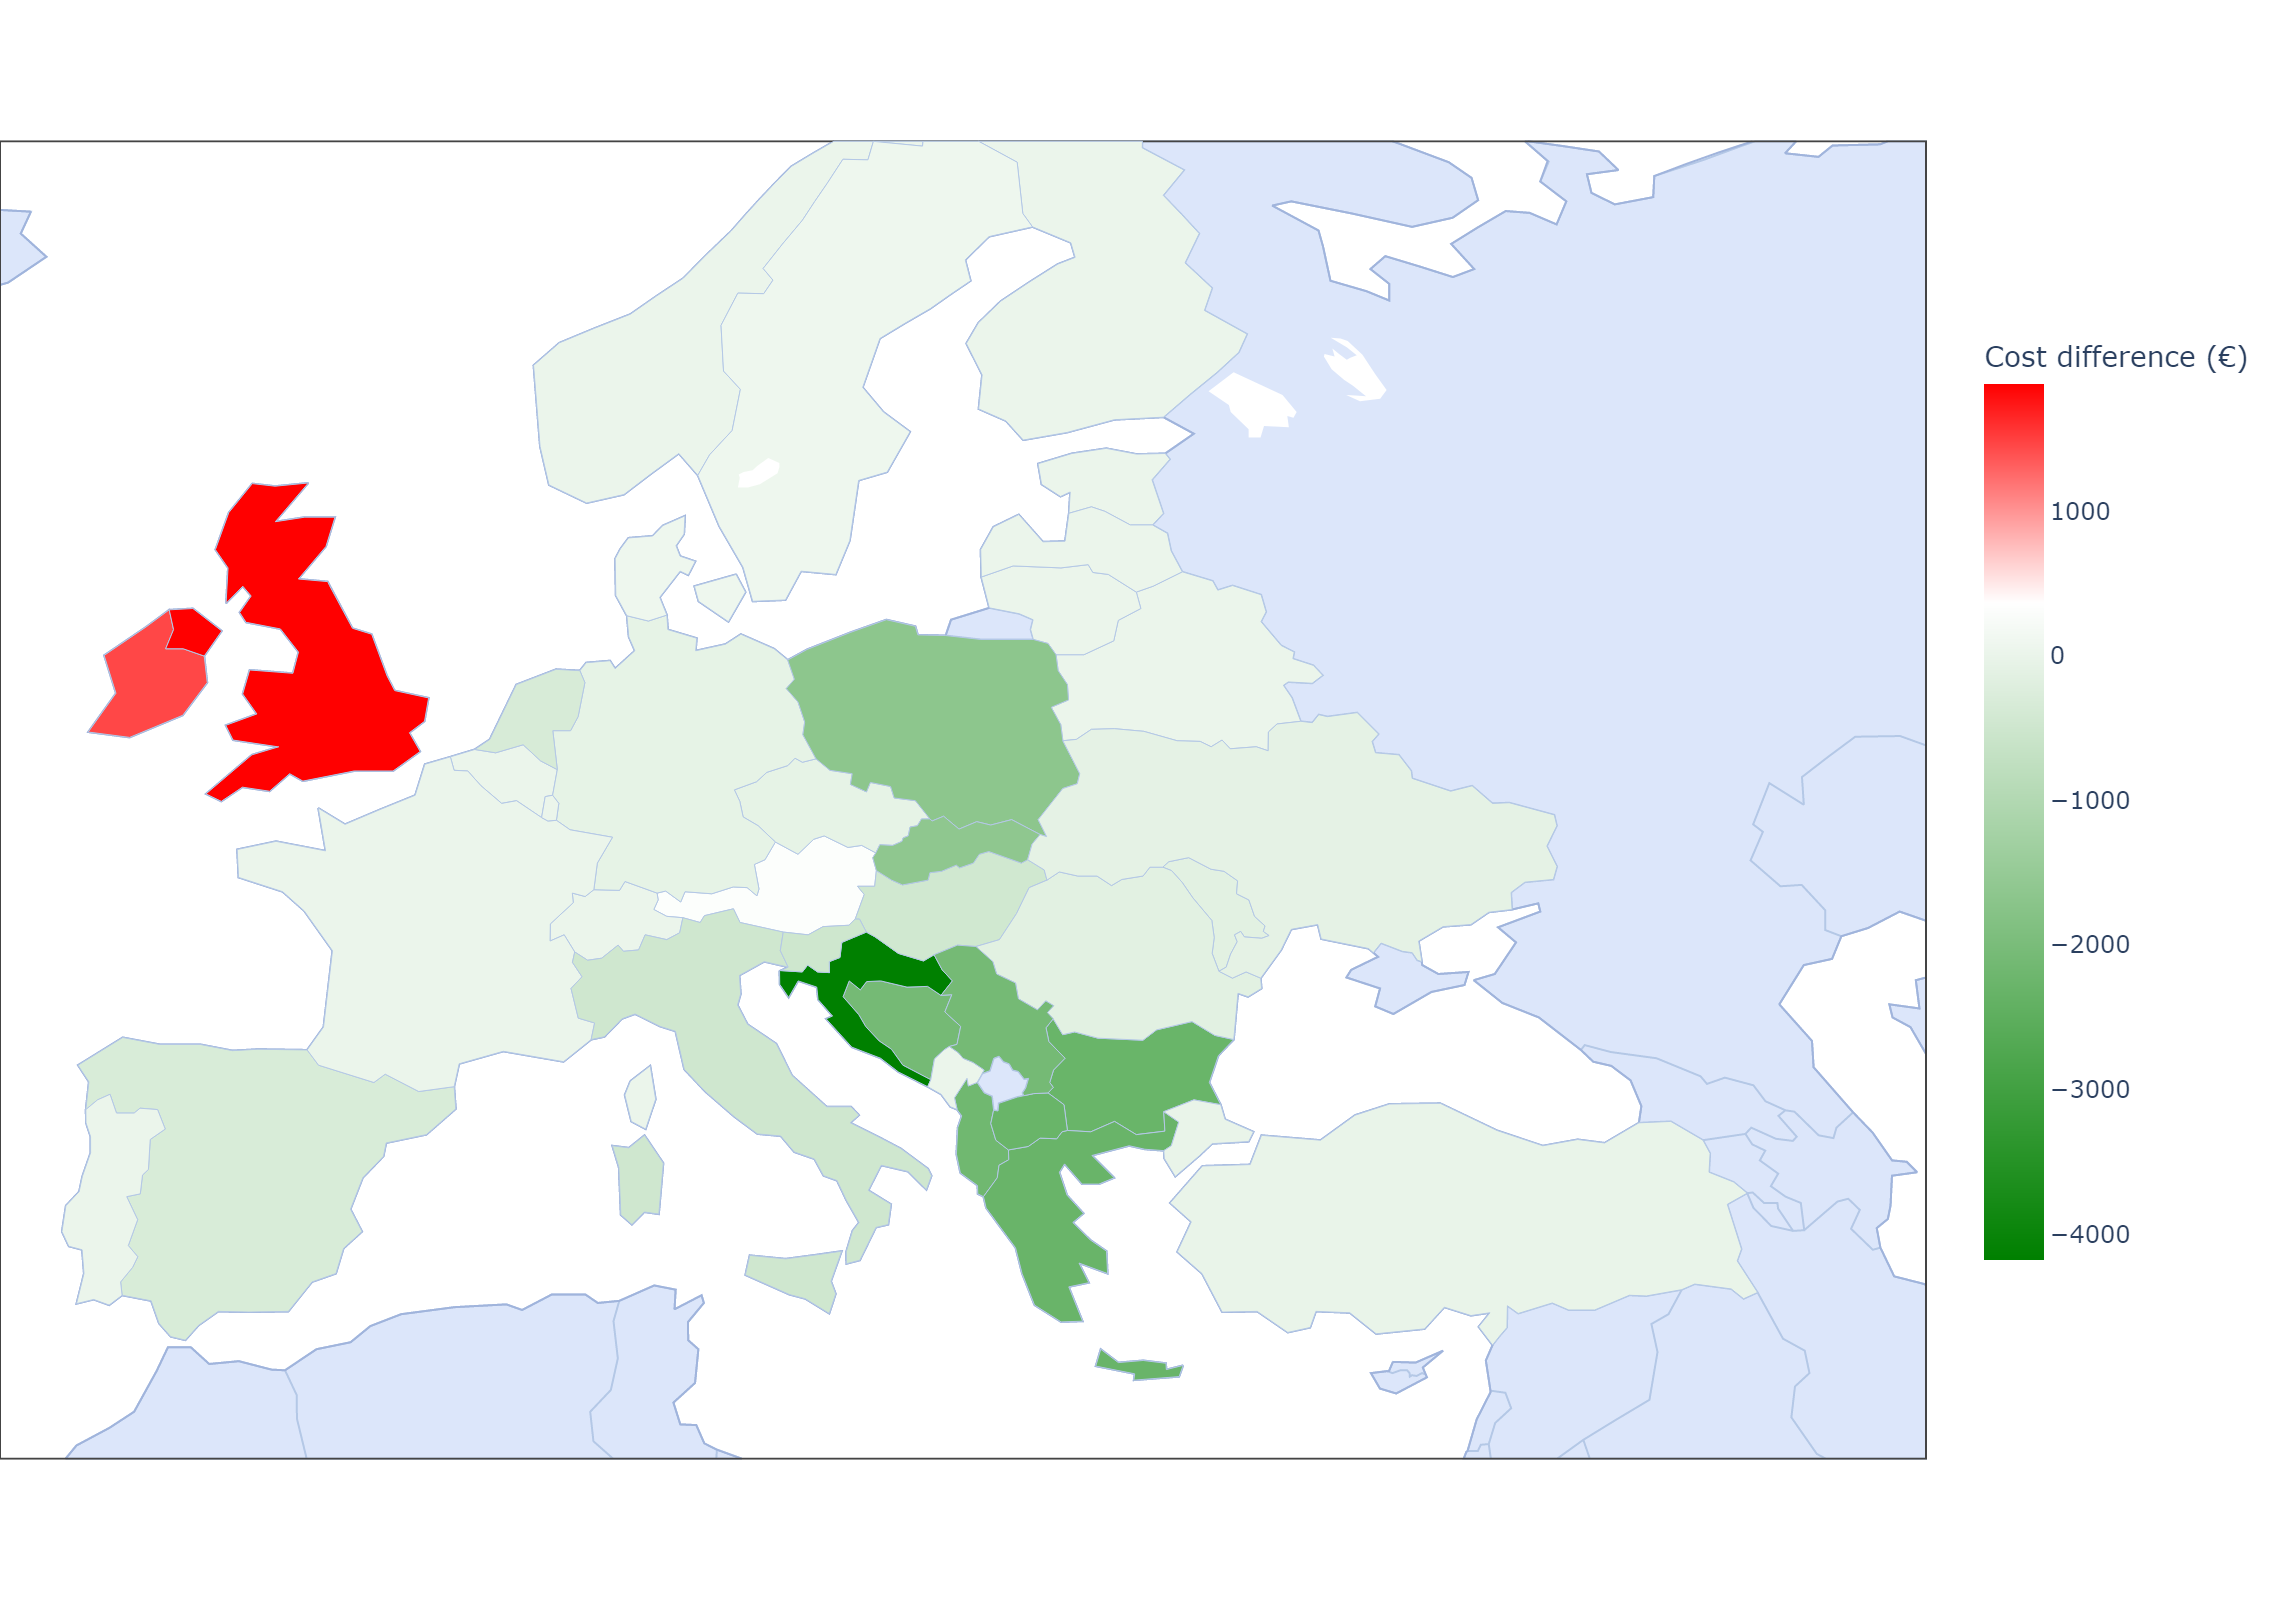
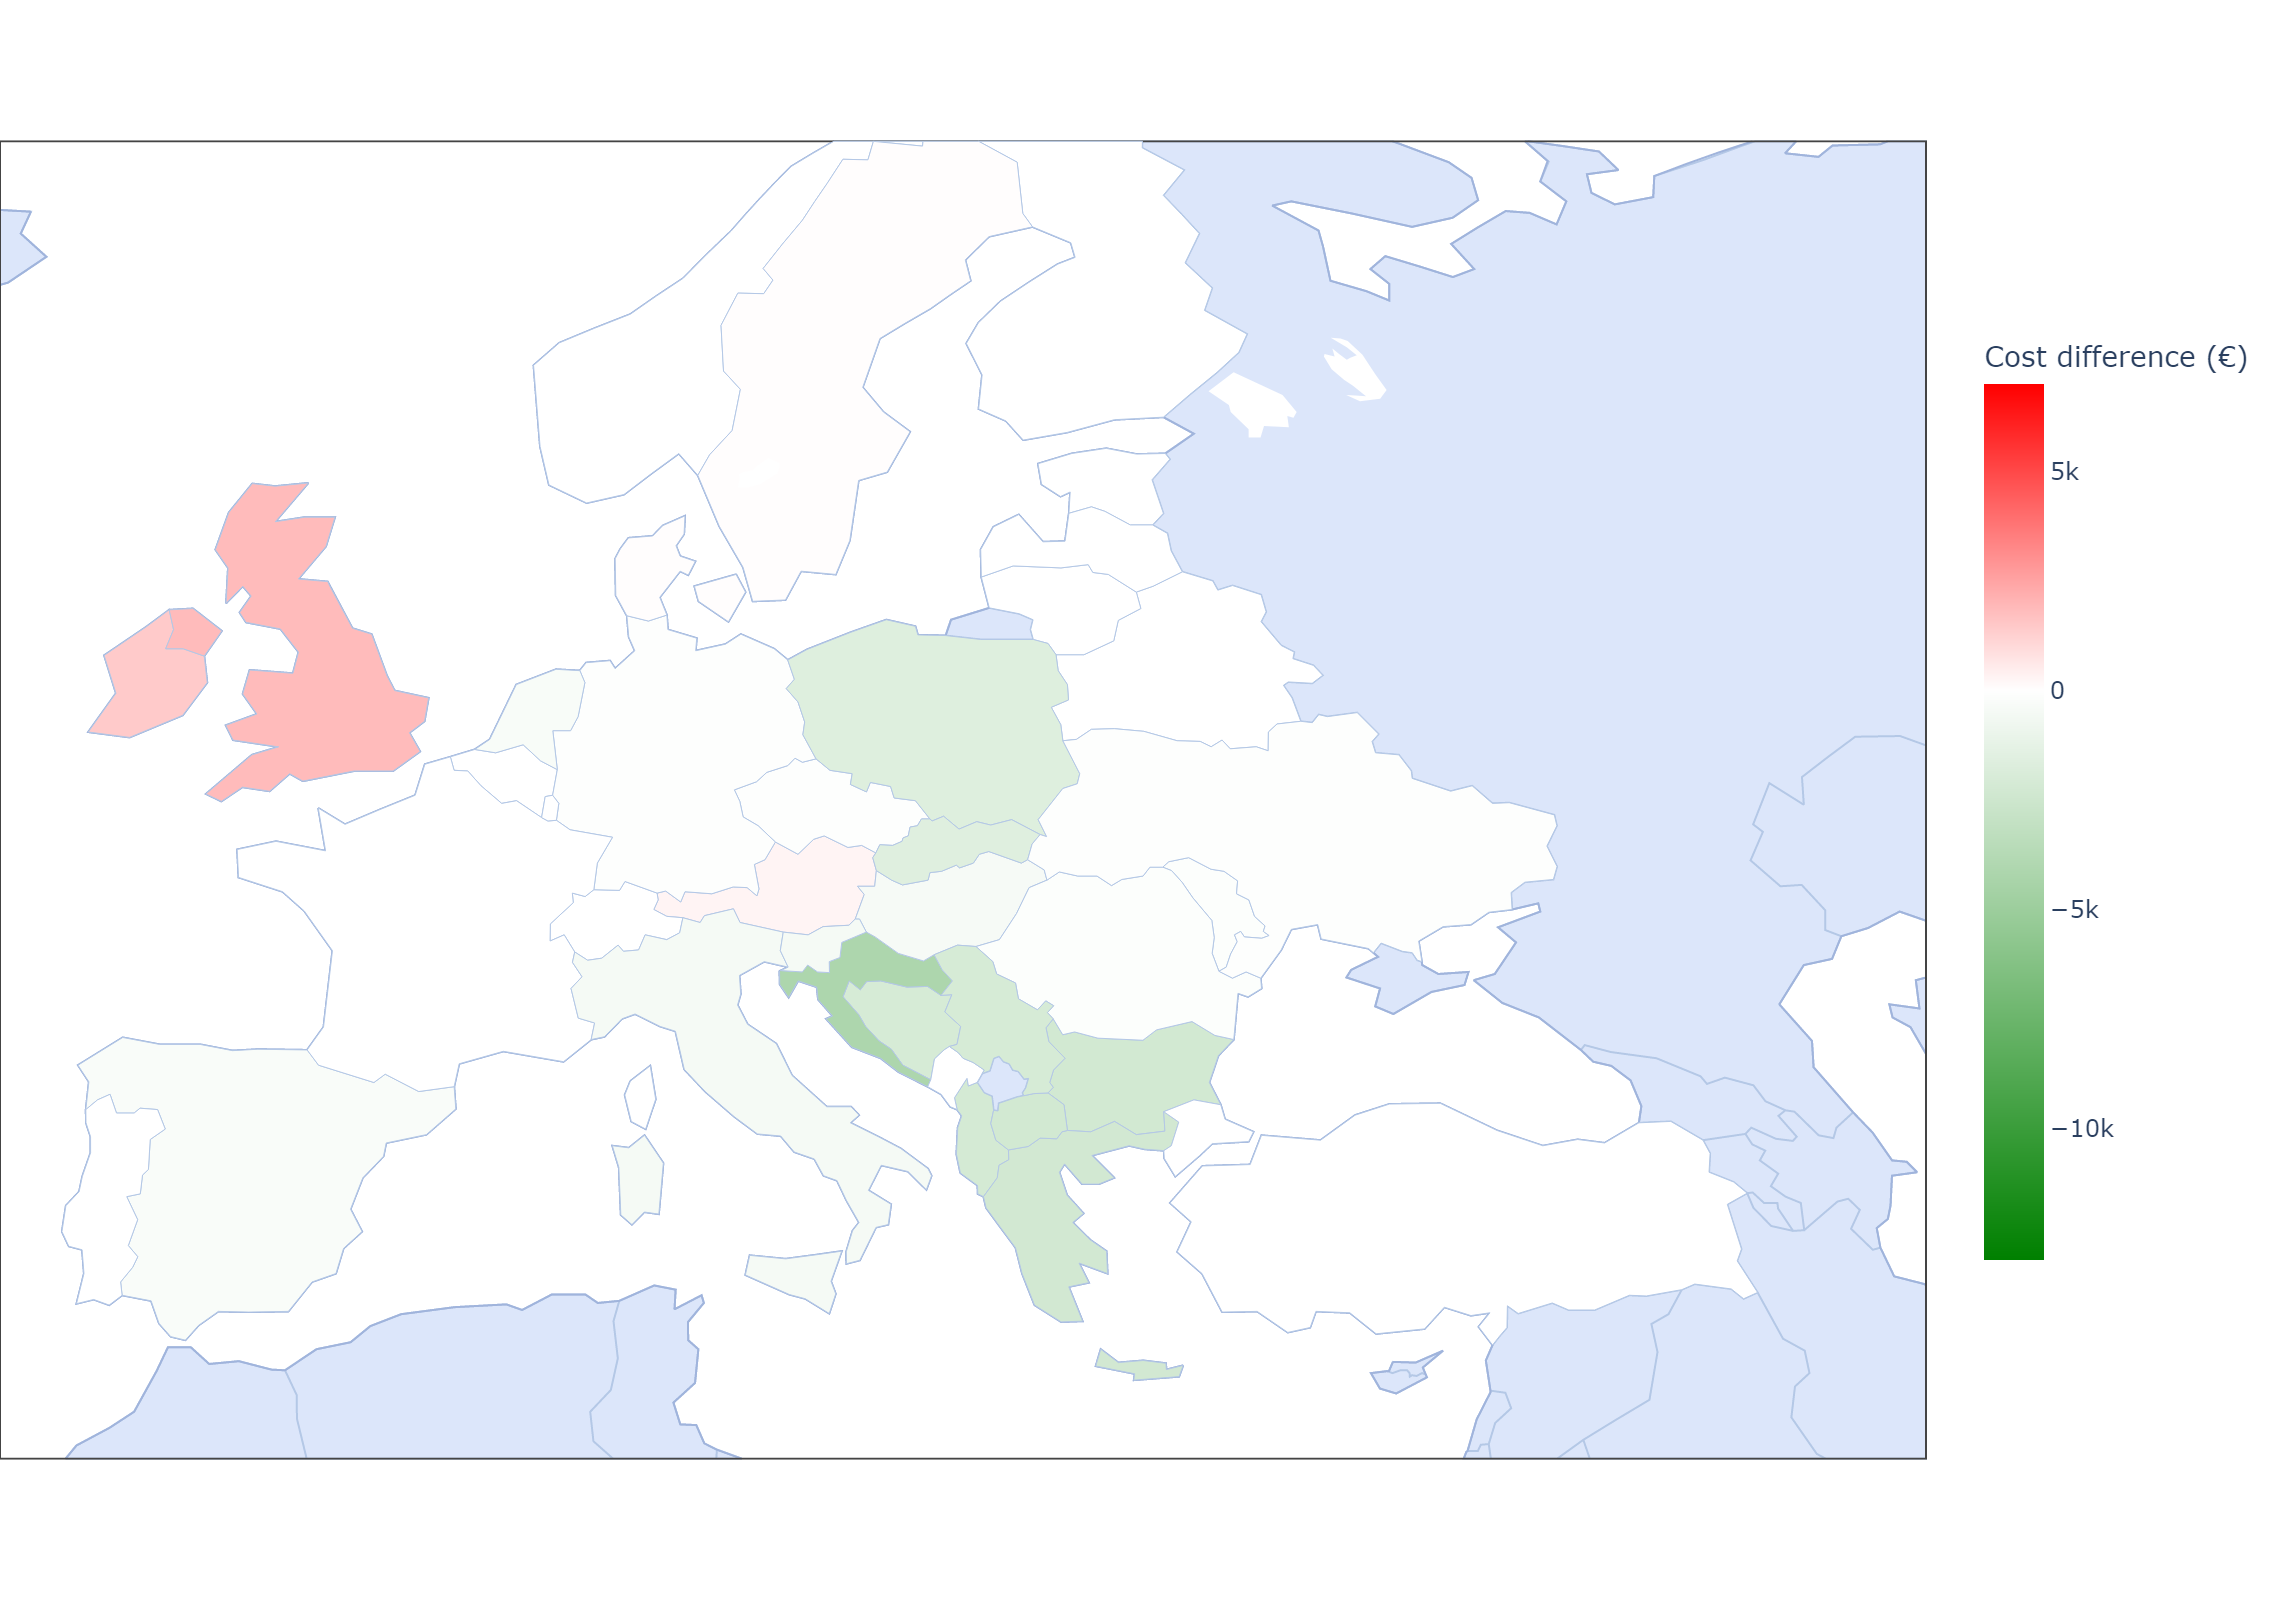
Fix colorbar for cost difference heatmaps

diff --git a/00_code_base/08_output_preparation/plot_visualization.py b/00_code_base/08_output_preparation/plot_visualization.py
@@ -7,9 +7,8 @@ from output_visualization_functions import *
 from LNG_external_imports_functions import *
 from year_difference_functions import *
 
-base_path =r"C:\Users\flv.eco\OneDrive - CBS - Copenhagen Business School\Documents\03_LNG_Cap\hydrogen_grid"
-# base_path = r"C:\Users\mar.eco\OneDrive - CBS - Copenhagen Business School\Desktop\hydrogen_grid"
-# base_path = r"/Users/mathilderogerestrade/Desktop/hydrogen_grid"
+# base_path =r"C:\Users\flv.eco\OneDrive - CBS - Copenhagen Business School\Documents\03_LNG_Cap\hydrogen_grid"
+base_path = r"C:\Users\mar.eco\OneDrive - CBS - Copenhagen Business School\Desktop\hydrogen_grid"
 #
 
 # Import this for save funcroin to work
@@ -97,9 +96,9 @@ pipelines_2035 = df_2035[(df_2035['FromType'] == '-') & (df_2035['ToType'] == '-
 pipeline_status_2035 = {edge: 'included' for edge in pipelines_2035['Edge']}
 
 
-plot_map(df_ports_2021, pipelines_2021, pipeline_status_2021, 2021, base_path, False)
-plot_map(df_ports_2024, pipelines_2024, pipeline_status_2024, 2024, base_path, False)
-plot_map(df_ports_2035, pipelines_2035, pipeline_status_2035, 2035, base_path, False)
+#plot_map(df_ports_2021, pipelines_2021, pipeline_status_2021, 2021, base_path, False)
+#plot_map(df_ports_2024, pipelines_2024, pipeline_status_2024, 2024, base_path, False)
+#plot_map(df_ports_2035, pipelines_2035, pipeline_status_2035, 2035, base_path, False)
 
 # -----------------------------------------------------------------------
 df_no_invest = process_file(output_file_no_invest)
@@ -224,19 +223,23 @@ if save_flow_invest:
 
 # ---------------------------------------------------------------------
 data_path = os.path.join(base_path, "01_data", "02_output_data", "02_unidirectional_results", "01_paper_IAEE", "02_prepared_results")
-scenario = "2035_AP_to_SP"
-full_name = "costs_shares_IAEE_2025_run_2035_AP"
-input_file_cost = os.path.join(data_path, "costs_shares_IAEE_2025_run_2035_AP.xlsx")
+scenario = "2024_inv"
+full_name = "costs_shares_IAEE_2025_run_2024_inv"
+input_file_cost = os.path.join(data_path, "costs_shares_IAEE_2025_run_2024_inv.xlsx")
 
 file_cost_difference_2021 = os.path.join(data_path, "cost_shares_differences_to_2021.xlsx")
 file_cost_difference_2024 = os.path.join(data_path, "cost_shares_differences_to_2024.xlsx")
 file_cost_difference_2035 = os.path.join(data_path, "cost_shares_differences_to_2035_SP.xlsx")
 
-#plot_cost_difference(file_cost_difference_2035, full_name, scenario, base_path, False)
+colorbar_zero_2021 = 0.32
+colorbar_zero_2024 = 0.65
+colorbar_zero_2025 = 0.7
+
+plot_cost_difference(file_cost_difference_2024, full_name, scenario, base_path, colorbar_zero_2024, True)
 
 data_path_emissions = os.path.join(base_path, "01_data", "02_output_data", "02_unidirectional_results", "01_paper_IAEE", "02_prepared_results")
 input_file_emissions= os.path.join(data_path_emissions, "emission_differences.xlsx")
 
 emissions_diff = pd.read_excel(input_file_emissions)
 
-plot_emission_difference(emissions_diff, "2021",base_path, False)
+# plot_emission_difference(emissions_diff, "2021",base_path, False)

diff --git a/00_code_base/08_output_preparation/output_visualization_functions.py b/00_code_base/08_output_preparation/output_visualization_functions.py
@@ -3,6 +3,7 @@ import pandas as pd
 import os
 import plotly.graph_objects as go
 import plotly.express as px
+import pycountry
 
 
 # Separate the Edge column to have which countries is source and which is destination 
@@ -545,7 +546,7 @@ def plot_cost_map(input_path, scenario, base_path, save):
 
 
 
-def plot_cost_difference(input_difference, full_scenario_name, scenario, base_path, save):
+def plot_cost_difference(input_difference, full_scenario_name, scenario, base_path, middle_colorbar, save):
     output_file = os.path.join(base_path, "02_plots", "Costs_Results", f"cost_difference_heatmap_{scenario}.png")
     
     df = pd.read_excel(input_difference, sheet_name="Summary_Total_Cost")
@@ -561,7 +562,7 @@ def plot_cost_difference(input_difference, full_scenario_name, scenario, base_pa
     # Green to red 
     colorscale = [
     [0.0, 'rgb(0, 128, 0)'],      # Green 
-    [0.65, 'rgb(255, 255, 255)'],  # White 
+    [middle_colorbar, 'rgb(255, 255, 255)'],  # White 
     [1.0, 'rgb(255, 0, 0)'],      # Red 
     ]
 
